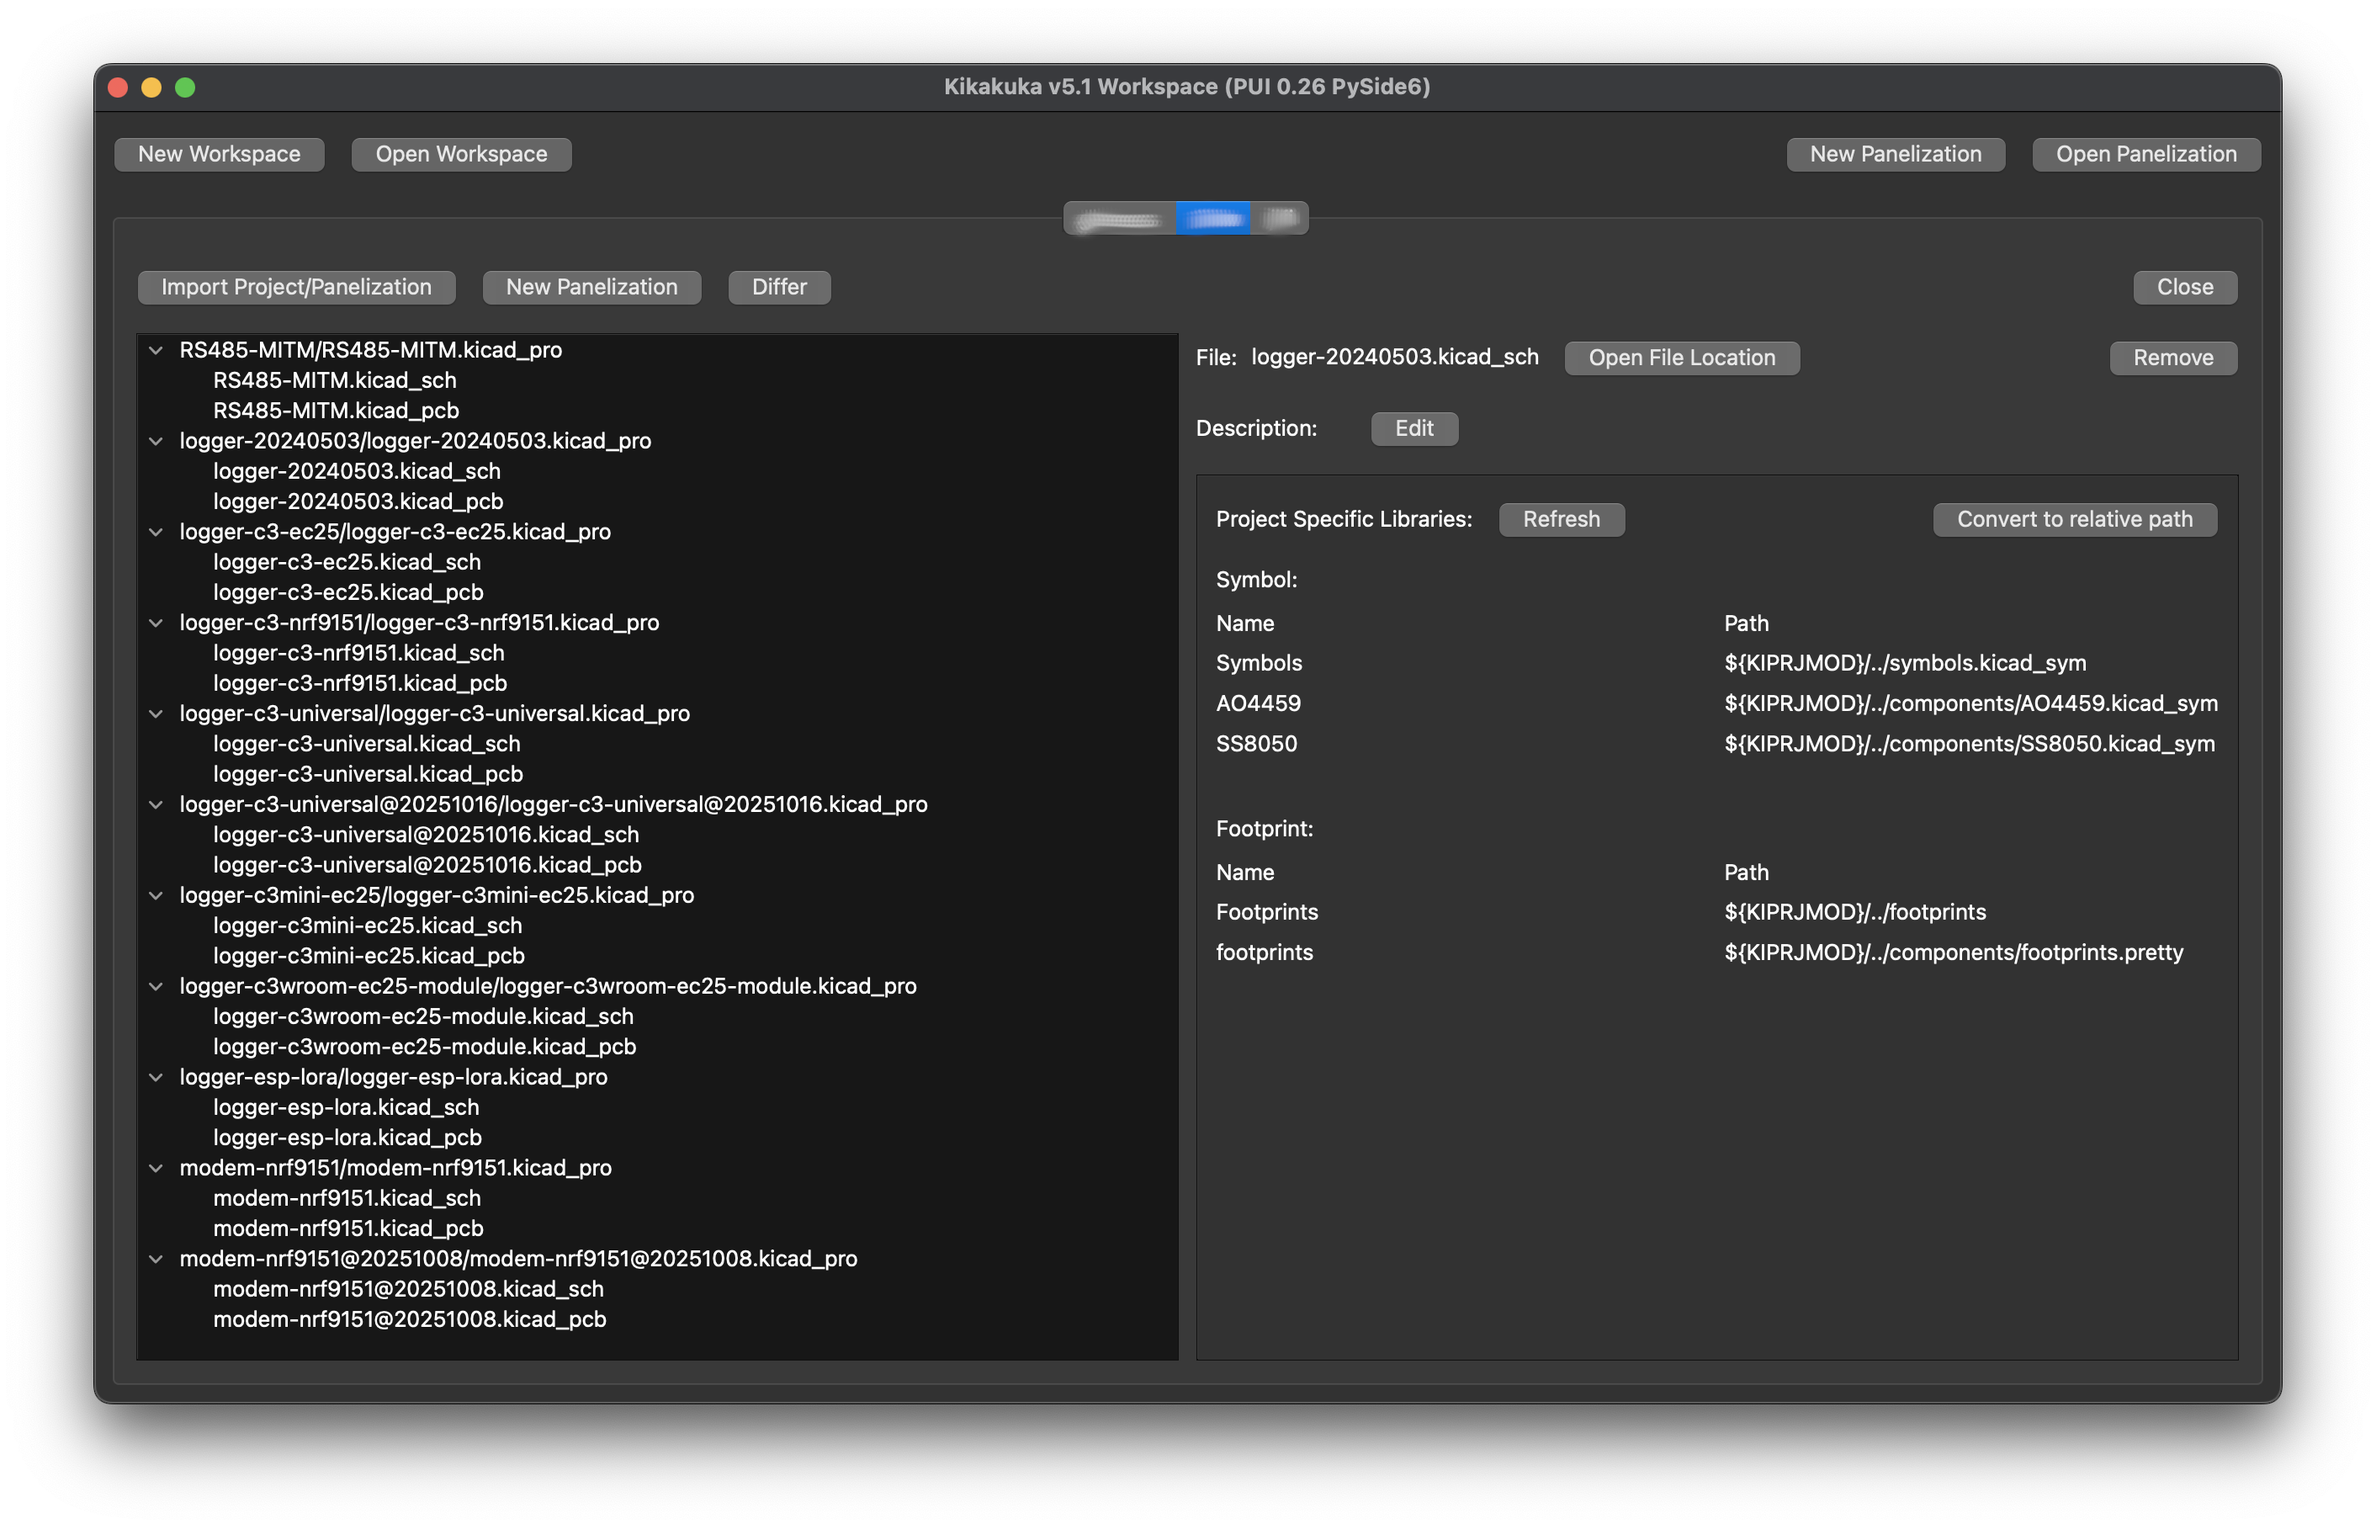
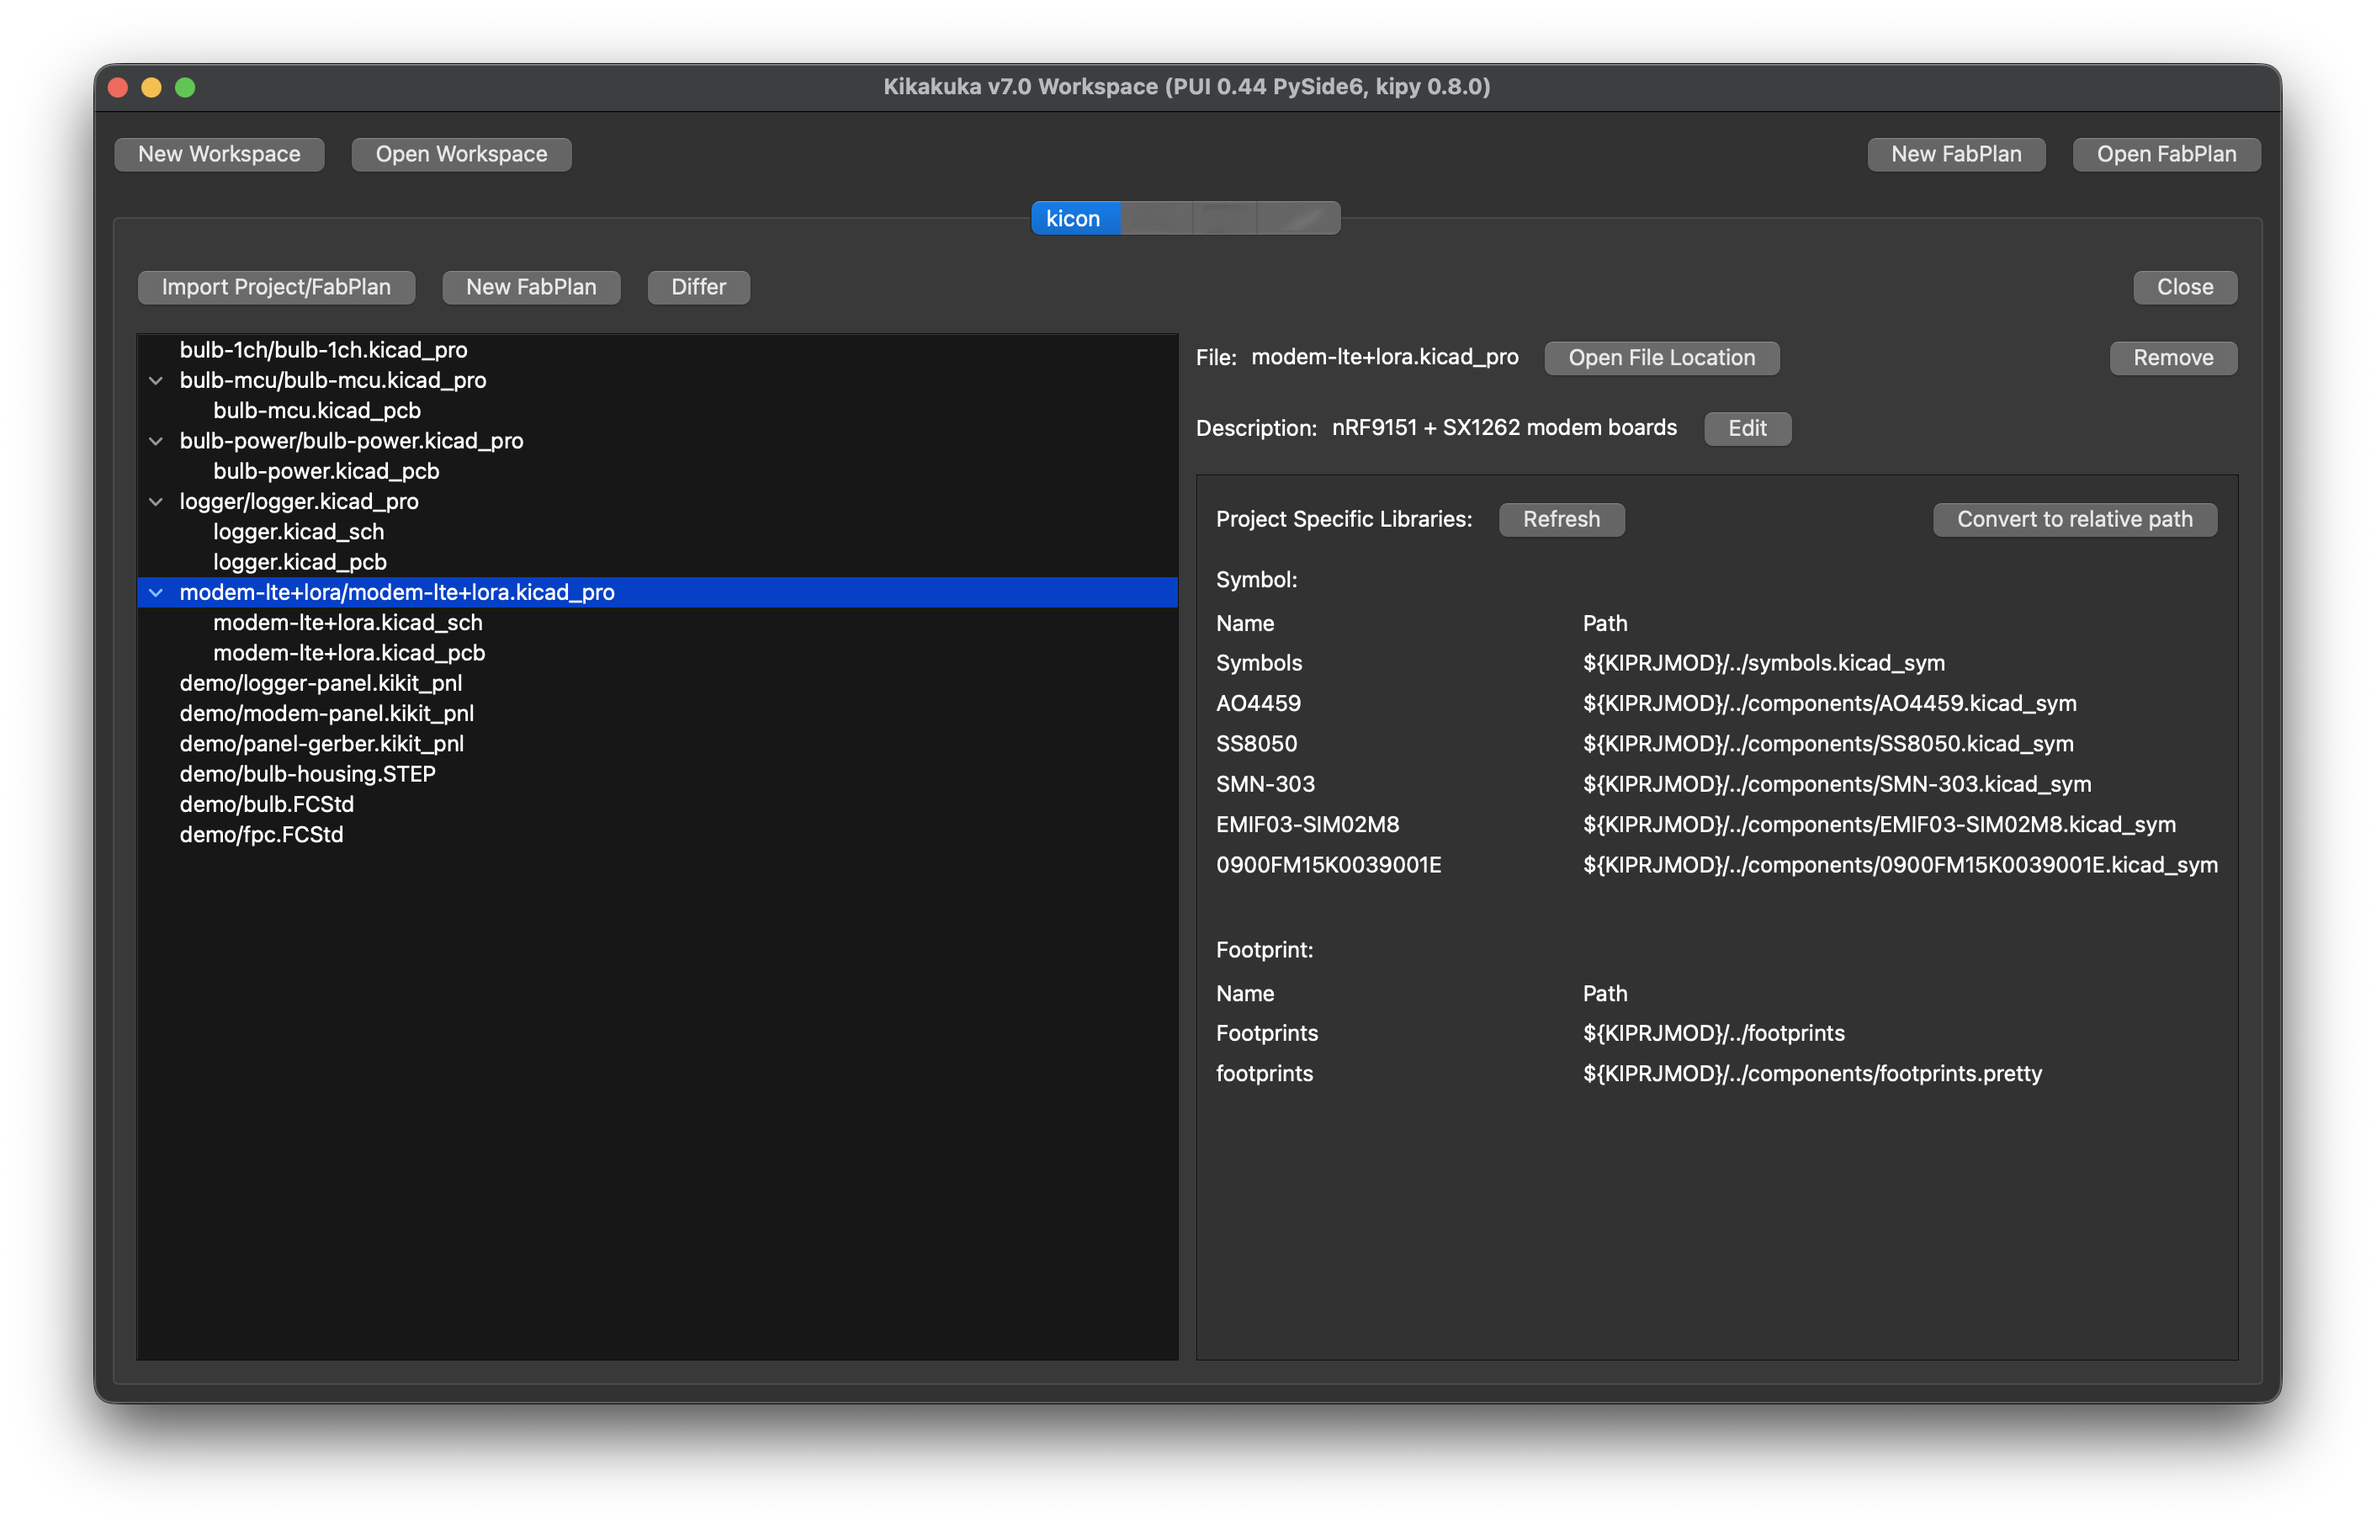
Rename fabrication plan UI to FabPlan

diff --git a/workspace.py b/workspace.py
@@ -406,8 +406,8 @@ class WorkspaceUI(PUIView):
     def content(self):
         with VBox():
             with HBox():
-                Button("Import Project/Panelization").click(lambda e: self.addFileDialog())
-                Button("New Panelization").click(lambda e: self.newPanelization())
+                Button("Import Project/FabPlan").click(lambda e: self.addFileDialog())
+                Button("New FabPlan").click(lambda e: self.newPanelization())
                 Button("Differ").click(lambda e: self.openDiffer())
                 Spacer()
                 Button("Close").click(lambda e: self.close())
@@ -570,7 +570,7 @@ class WorkspaceUI(PUIView):
         dir = None
         if self.state.filepath:
             dir = os.path.dirname(self.state.filepath)
-        filepath = OpenFile("Open Project/Panelization", dir=dir, types=f"KiCad Project/Panelization, FreeCAD File, Step File (*.kicad_pro *.kikit_pnl)|*.kicad_pro|*.kikit_pnl|*.FCStd|*.step")
+        filepath = OpenFile("Open Project/FabPlan", dir=dir, types=f"KiCad Project/FabPlan, FreeCAD File, Step File (*.kicad_pro *.kikit_pnl *.FCStd *.step)|*.kicad_pro|*.kikit_pnl|*.FCStd|*.step")
         if filepath:
             self.addFile(filepath)
 
@@ -599,7 +599,7 @@ class WorkspaceUI(PUIView):
     def newPanelization(self):
         if self.state.filepath:
             dir = os.path.dirname(self.state.filepath)
-        filepath = SaveFile("New Panelization", dir=dir, types=f"KiCad Panelization (*.kikit_pnl)|*.kikit_pnl")
+        filepath = SaveFile("New FabPlan", dir=dir, types=f"Kikakuka FabPlan (*.kikit_pnl)|*.kikit_pnl")
         if filepath:
             if not filepath.endswith(".kikit_pnl"):
                 filepath = filepath + ".kikit_pnl"
@@ -782,7 +782,7 @@ class MainUI(Application):
                         Button("Open").click(lambda e: self.openWorkspace())
                         Spacer()
                     with HBox():
-                        Label("Panelization")
+                        Label("FabPlan")
                         Button("New").click(lambda e: self.newPanelization())
                         Button("Open").click(lambda e: self.openPanelizationAndClose())
                         Spacer()
@@ -798,8 +798,8 @@ class MainUI(Application):
                     Button("New Workspace").click(lambda e: self.newWorkspace())
                     Button("Open Workspace").click(lambda e: self.openWorkspace())
                     Spacer()
-                    Button("New Panelization").click(lambda e: self.newPanelization())
-                    Button("Open Panelization").click(lambda e: self.openPanelizationAndClose())
+                    Button("New FabPlan").click(lambda e: self.newPanelization())
+                    Button("Open FabPlan").click(lambda e: self.openPanelizationAndClose())
 
                 with Tabs():
                     for workspace in self.state.workspaces:
@@ -826,14 +826,14 @@ class MainUI(Application):
 
 
     def newPanelization(self):
-        filepath = SaveFile("New Panelization", types=f"KiCad Panelization (*.kikit_pnl)|*.kikit_pnl")
+        filepath = SaveFile("New FabPlan", types=f"Kikakuka FabPlan (*.kikit_pnl)|*.kikit_pnl")
         if filepath:
             if not filepath.endswith(".kikit_pnl"):
                 filepath = filepath + ".kikit_pnl"
             self.openPanelizer(filepath)
 
     def openPanelizationAndClose(self):
-        filepath = OpenFile("Open Panelization", types=f"KiCad Panelization (*.kikit_pnl)|*.kikit_pnl")
+        filepath = OpenFile("Open FabPlan", types=f"Kikakuka FabPlan (*.kikit_pnl)|*.kikit_pnl")
         if filepath:
             self.openPanelizer(filepath)
             self.quit()

diff --git a/panelizer.py b/panelizer.py
@@ -1240,7 +1240,7 @@ class PanelizerUI(Application):
 
     def save(self, e, target=None):
         if target is None:
-            target = SaveFile(self.state.target_path, types="KiKit Panelization (*.kikit_pnl)|*.kikit_pnl")
+            target = SaveFile(self.state.target_path, types="Kikakuka FabPlan (*.kikit_pnl)|*.kikit_pnl")
         if not target:
             return
 
@@ -1332,7 +1332,7 @@ class PanelizerUI(Application):
         self.set_defaults()
 
         if target is None:
-            target = OpenFile("Load Panelization", types="KiKit Panelization (*.kikit_pnl)|*.kikit_pnl")
+            target = OpenFile("Load FabPlan", types="Kikakuka FabPlan (*.kikit_pnl)|*.kikit_pnl")
         if target:
             target = os.path.realpath(target)
             self.state.target_path = target
@@ -3102,7 +3102,7 @@ class PanelizerUI(Application):
             subprocess.Popen(("xdg-open", path))
 
     def content(self):
-        title = f"Kikakuka v{VERSION} Panelizer (KiCad {pcbnew.Version()}, KiKit {kikit.__version__}, Shapely {shapely.__version__}, PUI {PUI.__version__} {PUI_BACKEND})"
+        title = f"Kikakuka v{VERSION} Fabrication Planner (KiCad {pcbnew.Version()}, KiKit {kikit.__version__}, Shapely {shapely.__version__}, PUI {PUI.__version__} {PUI_BACKEND})"
         with Window(maximize=True, title=title, icon=resource_path("icon.ico")).keypress(self.keypress):
             with VBox():
                 with HBox().layout(weight=1):

diff --git a/README.md b/README.md
@@ -34,14 +34,13 @@ It creates a few more dimensions for KiCad:
         * Single PCB without panelization can be done with frameless setting
         * Each PCB can have its own flag settings
 * Gerber handling
-    * Available in the panelizer
+    * Available in the fabrication planner (panelizer)
     * Or direct conversion to .kicad_pcb
     * Compared with KiCad output
         * Better restoration of oval drill holes
         * Allow attaching BOM/CPL (converted to reference-only footprints)
 * CLI
-    * Convert saved .kkkk_pnl to kicad files in one command
-    * Same usage for panelizer & build variants
+    * Convert saved fabrication plan (.kikit_pnl) to kicad files in one command
 * FreeCAD Integration (only tested on macOS/Windows)
     * Requires FreeCAD 1.0 or later
     * `FreekiCAD` supports loading multiple .kicad_pcb files into a FreeCAD document
@@ -98,8 +97,8 @@ Single PCB without panelization can be done with frameless setting
 ![Variants-FieldValue](screenshots/variants-fieldvalue.png)
 `Field#Opt=A`, `Field#Opt=B` will be displayed as dropdown options.
 
-# Panelizer
-The `.kikit_pnl` file saves panelization settings in JSON format, with PCB paths stored relative to the file's location.
+# Fabrication Plan
+The `.kikit_pnl` file saves panelization and build-variants settings in JSON format, with PCB paths stored relative to the file's location.
 
 ## Global Alignment
 ![Global Alignment](screenshots/global_alignment.gif)
